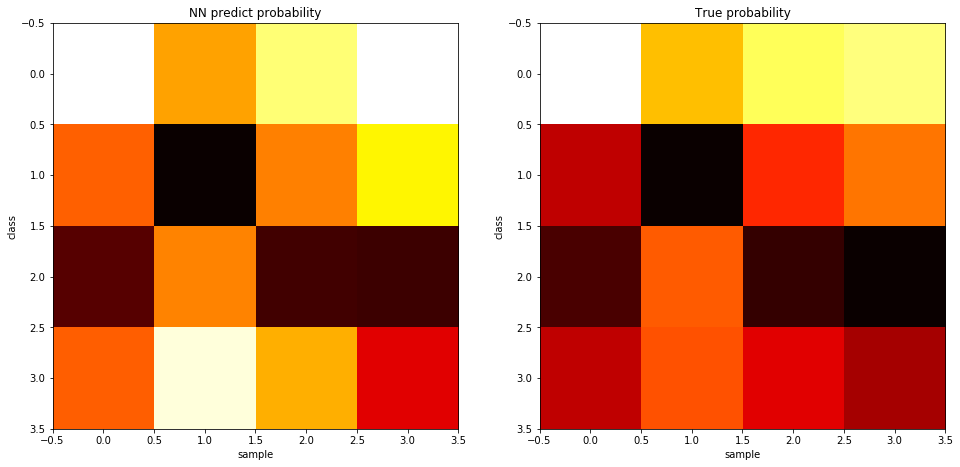
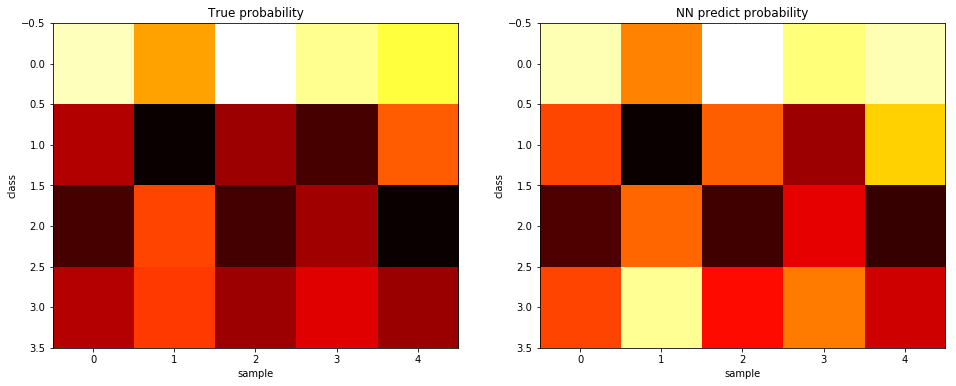
Site updated: 2017-10-31 23:16:55

diff --git a/a-study-in-free-lunch.html b/a-study-in-free-lunch.html
@@ -100,7 +100,7 @@
 <meta property="og:image" content="http://joshua.galaxy.42dna.com/uploads/a-study-in-free-lunch/pro_heatmap.png">
 <meta property="og:image" content="http://joshua.galaxy.42dna.com/uploads/a-study-in-free-lunch/pro_heatmap_all.png">
 <meta property="og:image" content="http://joshua.galaxy.42dna.com/uploads/a-study-in-free-lunch/test_predict_rate.png">
-<meta property="og:updated_time" content="2017-10-31T07:21:26.870Z">
+<meta property="og:updated_time" content="2017-10-31T15:15:41.832Z">
 <meta name="twitter:card" content="summary">
 <meta name="twitter:title" content="神经网络-一个案例的研究">
 <meta name="twitter:description" content="在完成的了神经网络的编程后，下面进行一个案例研究。具体的，下面会查看神经网络对于分类高度重合数据的效果，并对其结果进行讨论。">
@@ -373,17 +373,17 @@
 
 <p>可以看出4各类别的数据重叠在一起。对于这样分布的数据分类准确率会有一定的上限。</p>
 <h1 id="神经网络学习与分类"><a href="#神经网络学习与分类" class="headerlink" title="神经网络学习与分类"></a>神经网络学习与分类</h1><p>下面使用上次编写的<a href="../Neural-Networks.html">神经网络代码</a>进行分类。</p>
-<figure class="highlight python"><table><tr><td class="gutter"><pre><div class="line">1</div><div class="line">2</div><div class="line">3</div><div class="line">4</div><div class="line">5</div><div class="line">6</div><div class="line">7</div><div class="line">8</div><div class="line">9</div><div class="line">10</div><div class="line">11</div><div class="line">12</div><div class="line">13</div><div class="line">14</div><div class="line">15</div><div class="line">16</div><div class="line">17</div><div class="line">18</div><div class="line">19</div><div class="line">20</div><div class="line">21</div><div class="line">22</div><div class="line">23</div><div class="line">24</div><div class="line">25</div><div class="line">26</div><div class="line">27</div><div class="line">28</div><div class="line">29</div></pre></td><td class="code"><pre><div class="line"><span class="comment"># 初始化数据</span></div><div class="line"><span class="comment"># init input data for NN</span></div><div class="line">nsample = num * <span class="number">4</span></div><div class="line">nfeature = <span class="number">3</span></div><div class="line">nclass = <span class="number">4</span></div><div class="line"></div><div class="line">tX = X</div><div class="line">ty = np.zeros((nsample, nclass))</div><div class="line"><span class="keyword">for</span> i <span class="keyword">in</span> range(len(ty)):</div><div class="line">    ty[i][int(y[i])] = <span class="number">1</span></div><div class="line"><span class="comment"># ty = ty</span></div><div class="line"><span class="keyword">print</span> tX.shape, ty.shape</div><div class="line"></div><div class="line"><span class="comment"># Logistic-Sigmoid</span></div><div class="line"><span class="comment"># f = lambda x: 1.0 / (1 + np.exp(-x)) #apply to net</span></div><div class="line"><span class="comment"># df = lambda x: x * (1 - x)           #apply to z</span></div><div class="line"></div><div class="line"><span class="comment"># # Tanh-Sigmoid</span></div><div class="line">f = <span class="keyword">lambda</span> x: np.tanh(x)</div><div class="line">df = <span class="keyword">lambda</span> x: <span class="number">1</span> - x*x</div><div class="line"></div><div class="line">nn = ANN()</div><div class="line"></div><div class="line"></div><div class="line">nn = ANN()</div><div class="line"></div><div class="line">nn.train(tX, ty, hide_n = [<span class="number">3</span>],  f=f, df=df, \</div><div class="line">         eta = <span class="number">0.01</span>, epochs=<span class="number">5000</span>, _lambda = <span class="number">0.001</span>, \</div><div class="line">         momentum_alpha = <span class="number">0.1</span>, decay_r = <span class="number">0.001</span>, print_loss=<span class="number">500</span>, seed=<span class="number">0</span>)</div></pre></td></tr></table></figure>
-<p>测试一个网络结构为4 X 3 X 3的神经网络，经过5000次迭代后分类的准确率达到51.52%。</p>
+<figure class="highlight python"><table><tr><td class="gutter"><pre><div class="line">1</div><div class="line">2</div><div class="line">3</div><div class="line">4</div><div class="line">5</div><div class="line">6</div><div class="line">7</div><div class="line">8</div><div class="line">9</div><div class="line">10</div><div class="line">11</div><div class="line">12</div><div class="line">13</div><div class="line">14</div><div class="line">15</div><div class="line">16</div><div class="line">17</div><div class="line">18</div><div class="line">19</div><div class="line">20</div><div class="line">21</div><div class="line">22</div><div class="line">23</div><div class="line">24</div><div class="line">25</div><div class="line">26</div><div class="line">27</div></pre></td><td class="code"><pre><div class="line"><span class="comment"># 初始化数据</span></div><div class="line"><span class="comment"># init input data for NN</span></div><div class="line">nsample = num * <span class="number">4</span></div><div class="line">nfeature = <span class="number">3</span></div><div class="line">nclass = <span class="number">4</span></div><div class="line"></div><div class="line">tX = X</div><div class="line">ty = np.zeros((nsample, nclass))</div><div class="line"><span class="keyword">for</span> i <span class="keyword">in</span> range(len(ty)):</div><div class="line">    ty[i][int(y[i])] = <span class="number">1</span></div><div class="line"><span class="comment"># ty = ty</span></div><div class="line"><span class="keyword">print</span> tX.shape, ty.shape</div><div class="line"></div><div class="line"><span class="comment"># Logistic-Sigmoid</span></div><div class="line"><span class="comment"># f = lambda x: 1.0 / (1 + np.exp(-x)) #apply to net</span></div><div class="line"><span class="comment"># df = lambda x: x * (1 - x)           #apply to z</span></div><div class="line"></div><div class="line"><span class="comment"># # Tanh-Sigmoid</span></div><div class="line">f = <span class="keyword">lambda</span> x: np.tanh(x)</div><div class="line">df = <span class="keyword">lambda</span> x: <span class="number">1</span> - x*x</div><div class="line"></div><div class="line"></div><div class="line">nn = ANN()</div><div class="line"></div><div class="line">nn.train(tX, ty, hide_n = [<span class="number">3</span>],  f=f, df=df, \</div><div class="line">         eta = <span class="number">0.01</span>, epochs=<span class="number">5000</span>, _lambda = <span class="number">0.001</span>, \</div><div class="line">         momentum_alpha = <span class="number">0.1</span>, decay_r = <span class="number">0.001</span>, print_loss=<span class="number">500</span>, seed=<span class="number">0</span>)</div></pre></td></tr></table></figure>
+<p>测试一个网络结构为3 X 3 X 4的神经网络，经过5000次迭代后分类的准确率达到51.52%。</p>
 <p>下面查看在个别样本点下预测概率值与真实概率值的区别。</p>
-<figure class="highlight plain"><table><tr><td class="gutter"><pre><div class="line">1</div><div class="line">2</div><div class="line">3</div><div class="line">4</div><div class="line">5</div><div class="line">6</div><div class="line">7</div><div class="line">8</div><div class="line">9</div><div class="line">10</div><div class="line">11</div><div class="line">12</div><div class="line">13</div><div class="line">14</div><div class="line">15</div><div class="line">16</div><div class="line">17</div><div class="line">18</div><div class="line">19</div><div class="line">20</div><div class="line">21</div><div class="line">22</div><div class="line">23</div><div class="line">24</div><div class="line">25</div><div class="line">26</div><div class="line">27</div><div class="line">28</div><div class="line">29</div><div class="line">30</div></pre></td><td class="code"><pre><div class="line"># 生成4个样本点</div><div class="line">target = np.array([[0, 0, 0],</div><div class="line">                   [-1, 0, 1],</div><div class="line">                   [0.5, 0.5, 0],</div><div class="line">                   [0, 0, -1]])</div><div class="line">                   </div><div class="line"># 获取神经网络的预测概率值</div><div class="line">pre_p  = nn.get_p(target)</div><div class="line"></div><div class="line"># 获取真实分布概率值</div><div class="line"># 多元高斯概率值函数</div><div class="line">def multivariate_gaussian(x, mu, cov):</div><div class="line">    k = len(mu)</div><div class="line">    cov_det = np.linalg.det(cov)</div><div class="line">    cov_inv = np.linalg.inv(cov)</div><div class="line">    sub = x - mu</div><div class="line">    up = np.exp(-1.0 / 2 * sum(sub.dot(cov_inv) * sub))</div><div class="line">    down = np.sqrt((2*np.pi)**k * cov_det)</div><div class="line">    return up / down </div><div class="line"></div><div class="line"># 条件概率</div><div class="line">def get_multip_class_true_p(x):</div><div class="line">    return [multivariate_gaussian(x, mu=mu1, cov=cov1), </div><div class="line">            multivariate_gaussian(x, mu=mu2, cov=cov2),</div><div class="line">            multivariate_gaussian(x, mu=mu3, cov=cov3),</div><div class="line">            multivariate_gaussian(x, mu=mu4, cov=cov4)]</div><div class="line"> </div><div class="line">all_true_p = np.array([get_multip_class_true_p(target[i]) for i in range(4)]).T</div><div class="line"># 真实概率值</div><div class="line">target_p = all_true_p / all_true_p.sum(0)</div></pre></td></tr></table></figure>
+<figure class="highlight plain"><table><tr><td class="gutter"><pre><div class="line">1</div><div class="line">2</div><div class="line">3</div><div class="line">4</div><div class="line">5</div><div class="line">6</div><div class="line">7</div><div class="line">8</div><div class="line">9</div><div class="line">10</div><div class="line">11</div><div class="line">12</div><div class="line">13</div><div class="line">14</div><div class="line">15</div><div class="line">16</div><div class="line">17</div><div class="line">18</div><div class="line">19</div><div class="line">20</div><div class="line">21</div><div class="line">22</div><div class="line">23</div><div class="line">24</div><div class="line">25</div><div class="line">26</div><div class="line">27</div><div class="line">28</div><div class="line">29</div><div class="line">30</div><div class="line">31</div></pre></td><td class="code"><pre><div class="line"># 生成4个样本点</div><div class="line">target = np.array([[0, 0, 0],</div><div class="line">                   [-1, 0, 1],</div><div class="line">                   [0.5, -0.5, 0],</div><div class="line">                   [-1, 0, 0],</div><div class="line">                   [0, 0, -1]])</div><div class="line">                   </div><div class="line"># 获取神经网络的预测概率值</div><div class="line">pre_p  = nn.get_p(target)</div><div class="line"></div><div class="line"># 获取真实分布概率值</div><div class="line"># 多元高斯概率值函数</div><div class="line">def multivariate_gaussian(x, mu, cov):</div><div class="line">    k = len(mu)</div><div class="line">    cov_det = np.linalg.det(cov)</div><div class="line">    cov_inv = np.linalg.inv(cov)</div><div class="line">    sub = x - mu</div><div class="line">    up = np.exp(-1.0 / 2 * sum(sub.dot(cov_inv) * sub))</div><div class="line">    down = np.sqrt((2*np.pi)**k * cov_det)</div><div class="line">    return up / down </div><div class="line"></div><div class="line"># 条件概率</div><div class="line">def get_multip_class_true_p(x):</div><div class="line">    return [multivariate_gaussian(x, mu=mu1, cov=cov1), </div><div class="line">            multivariate_gaussian(x, mu=mu2, cov=cov2),</div><div class="line">            multivariate_gaussian(x, mu=mu3, cov=cov3),</div><div class="line">            multivariate_gaussian(x, mu=mu4, cov=cov4)]</div><div class="line"> </div><div class="line">all_true_p = np.array([get_multip_class_true_p(target[i]) for i in range(5)]).T</div><div class="line"># 真实概率值</div><div class="line">target_p = all_true_p / all_true_p.sum(0)</div></pre></td></tr></table></figure>
 <p>得到的概率值数值为</p>
-<figure class="highlight plain"><table><tr><td class="gutter"><pre><div class="line">1</div><div class="line">2</div><div class="line">3</div><div class="line">4</div><div class="line">5</div><div class="line">6</div><div class="line">7</div><div class="line">8</div><div class="line">9</div><div class="line">10</div><div class="line">11</div><div class="line">12</div><div class="line">13</div><div class="line">14</div><div class="line">15</div><div class="line">16</div><div class="line">17</div><div class="line">18</div><div class="line">19</div><div class="line">20</div><div class="line">21</div><div class="line">22</div><div class="line">23</div><div class="line">24</div><div class="line">25</div><div class="line">26</div><div class="line">27</div></pre></td><td class="code"><pre><div class="line"># NN预测概率， 其中每一行代表一个数据点，每一列对应每个类别的概率值</div><div class="line">array([[ 0.43965423,  0.2807295 ,  0.38435841,  0.44024963],</div><div class="line">       [ 0.2412433 ,  0.03333006,  0.26054298,  0.33186004],</div><div class="line">       [ 0.07974024,  0.26068414,  0.06742546,  0.06392216],</div><div class="line">       [ 0.23936223,  0.4252563 ,  0.28767315,  0.16396817]])</div><div class="line"># 真实概率</div><div class="line">array([[ 0.57319913,  0.38239803,  0.4820328 ,  0.50071463],</div><div class="line">       [ 0.17383142,  0.02587597,  0.25656062,  0.32146516],</div><div class="line">       [ 0.07816171,  0.30006788,  0.06047473,  0.02511796],</div><div class="line">       [ 0.17480774,  0.29165812,  0.20093184,  0.15270225]])</div><div class="line"> </div><div class="line"> # 画热图</div><div class="line">plt.figure(figsize=(16, 32))</div><div class="line">plt.subplot(1, 2, 1)</div><div class="line">plt.title(&apos;NN predict probability&apos;)</div><div class="line">plt.imshow(target_p, cmap=&apos;hot&apos;, interpolation=&apos;nearest&apos;)</div><div class="line">plt.xlabel(&apos;sample&apos;)</div><div class="line">plt.ylabel(&apos;class&apos;)</div><div class="line"></div><div class="line">plt.subplot(1, 2, 2)</div><div class="line">plt.title(&apos;True probability&apos;)</div><div class="line">plt.imshow(pre_p, cmap=&apos;hot&apos;, interpolation=&apos;nearest&apos;)</div><div class="line">plt.xlabel(&apos;sample&apos;)</div><div class="line">plt.ylabel(&apos;class&apos;)</div><div class="line">plt.show()</div><div class="line"></div><div class="line">plt.show()</div></pre></td></tr></table></figure>
+<figure class="highlight plain"><table><tr><td class="gutter"><pre><div class="line">1</div><div class="line">2</div><div class="line">3</div><div class="line">4</div><div class="line">5</div><div class="line">6</div><div class="line">7</div><div class="line">8</div><div class="line">9</div><div class="line">10</div><div class="line">11</div><div class="line">12</div><div class="line">13</div><div class="line">14</div><div class="line">15</div><div class="line">16</div><div class="line">17</div><div class="line">18</div><div class="line">19</div><div class="line">20</div><div class="line">21</div><div class="line">22</div><div class="line">23</div><div class="line">24</div><div class="line">25</div><div class="line">26</div><div class="line">27</div><div class="line">28</div><div class="line">29</div><div class="line">30</div></pre></td><td class="code"><pre><div class="line"># NN预测概率， 其中每一行代表一个数据点，每一列对应每个类别的概率值</div><div class="line">[[ 0.43965423  0.2412433   0.07974024  0.23936223]</div><div class="line"> [ 0.2807295   0.03333006  0.26068414  0.4252563 ]</div><div class="line"> [ 0.4733875   0.2553482   0.07037593  0.20088837]</div><div class="line"> [ 0.41485988  0.13125879  0.17941225  0.27446907]</div><div class="line"> [ 0.44024963  0.33186004  0.06392216  0.16396817]]</div><div class="line"># 真实后验概率</div><div class="line">[[ 0.57319913  0.17383142  0.07816171  0.17480774]</div><div class="line"> [ 0.38239803  0.02587597  0.30006788  0.29165812]</div><div class="line"> [ 0.61360936  0.15427108  0.07698202  0.15513754]</div><div class="line"> [ 0.54839143  0.07855839  0.15830697  0.21474321]</div><div class="line"> [ 0.50071463  0.32146516  0.02511796  0.15270225]]</div><div class="line"></div><div class="line"> </div><div class="line"> # 画热图</div><div class="line">plt.figure(figsize=(16, 32))</div><div class="line">plt.subplot(1, 2, 1)</div><div class="line">plt.title(&apos;True probability&apos;)</div><div class="line">plt.imshow(target_p, cmap=&apos;hot&apos;)</div><div class="line">plt.xlabel(&apos;sample&apos;)</div><div class="line">plt.ylabel(&apos;class&apos;)</div><div class="line"></div><div class="line"></div><div class="line">plt.subplot(1, 2, 2)</div><div class="line">plt.title(&apos;NN predict probability&apos;)</div><div class="line"></div><div class="line">plt.imshow(pre_p, cmap=&apos;hot&apos;)</div><div class="line">plt.xlabel(&apos;sample&apos;)</div><div class="line">plt.ylabel(&apos;class&apos;)</div><div class="line">plt.show()</div></pre></td></tr></table></figure>
 <p><img src="/uploads/a-study-in-free-lunch/pro_heatmap.png" alt="pro_heatmap"></p>
 <p>可以看出预测概率值和真实概率大小关系大致相同，但其中第二个样本点分类错误。</p>
 <h2 id="多层神经网络"><a href="#多层神经网络" class="headerlink" title="多层神经网络"></a>多层神经网络</h2><p>从前面的测试看出使用[3 X 3 X 4]的神经网络学习的准确率只有51%左右，下面改变网络隐藏层的节点数和结构学习新的神经网络看学习准确率的改变。</p>
 <p>分别使用上面的代码新生成3个神经网络，分别是nn1(结构为[3 X 10 X 4]， lambda=0.0001，迭代10000次)，nn2(结构为[3 X 10 X 10 X 4]， lambda=0.0001，迭代10000次)，nn3(结构为[3 X 50 X 50 X 4]， lambda=0.0001，迭代10000次)。它们学习准确率分别为 nn1 分类正确了57.57%训练样本，nn2分类正确58.5%, nn3 分类正确60.65%。</p>
-<p>下面是在4个样本点中，这4个分类器得到的概率值热图。</p>
+<p>下面是在5个样本点中，这4个分类器得到的概率值热图。</p>
 <figure class="highlight plain"><table><tr><td class="gutter"><pre><div class="line">1</div><div class="line">2</div><div class="line">3</div><div class="line">4</div><div class="line">5</div><div class="line">6</div><div class="line">7</div><div class="line">8</div><div class="line">9</div><div class="line">10</div><div class="line">11</div><div class="line">12</div><div class="line">13</div><div class="line">14</div><div class="line">15</div><div class="line">16</div><div class="line">17</div><div class="line">18</div><div class="line">19</div></pre></td><td class="code"><pre><div class="line">the_nn = [nn, nn1, nn2, nn3]</div><div class="line"></div><div class="line">plt.figure(figsize=(15, 30))</div><div class="line"></div><div class="line">plt.subplot(5, 2, 1)</div><div class="line">plt.title(&apos;True probability&apos;)</div><div class="line">plt.imshow(target_p, cmap=&apos;hot&apos;, interpolation=&apos;nearest&apos;)</div><div class="line">plt.xlabel(&apos;sample&apos;)</div><div class="line">plt.ylabel(&apos;class&apos;)</div><div class="line"></div><div class="line">for i, nn_i in enumerate(the_nn):</div><div class="line">    plt.subplot(5, 2, i+2)</div><div class="line">    plt.title(&apos;NN%s preict probability&apos; % (i))</div><div class="line">    pre_tmp  = nn_i.get_p(target)</div><div class="line">    plt.imshow(pre_tmp, cmap=&apos;hot&apos;, interpolation=&apos;nearest&apos;)</div><div class="line">    plt.xlabel(&apos;sample&apos;)</div><div class="line">    plt.ylabel(&apos;class&apos;)</div><div class="line"></div><div class="line">plt.show()</div></pre></td></tr></table></figure>
 <p><img src="/uploads/a-study-in-free-lunch/pro_heatmap_all.png" alt="pro_heatmap_all"></p>
 <p>虽然随着隐藏层节点数和层数的增加，学习的准确率得到提升(51% -&gt; 57% -&gt; 58% -&gt; 60%)，但是从概率预测值的如图来看，概率预测值和真实值相比并没变得更加贴近。其中藏层层数为[3]和[10X10]的神经网络得到的预测概率值与真实概率相似。从这些热图图也可以看出较复杂的神经网络并没有比最简单[3 X 3 X 4]的神经网络得到更优的概率值预测结果。</p>
@@ -391,9 +391,9 @@
 <figure class="highlight python"><table><tr><td class="gutter"><pre><div class="line">1</div><div class="line">2</div><div class="line">3</div><div class="line">4</div><div class="line">5</div><div class="line">6</div><div class="line">7</div><div class="line">8</div><div class="line">9</div><div class="line">10</div><div class="line">11</div><div class="line">12</div><div class="line">13</div><div class="line">14</div><div class="line">15</div><div class="line">16</div><div class="line">17</div><div class="line">18</div><div class="line">19</div><div class="line">20</div><div class="line">21</div><div class="line">22</div><div class="line">23</div><div class="line">24</div></pre></td><td class="code"><pre><div class="line"><span class="comment"># 生成测试数据</span></div><div class="line">np.random.seed(<span class="number">0</span>)</div><div class="line"></div><div class="line">num = <span class="number">100</span></div><div class="line">test_X = np.vstack((gen_data(mu1, cov1, num), \</div><div class="line">               gen_data(mu2, cov2, num), \</div><div class="line">               gen_data(mu3, cov3, num), \</div><div class="line">               gen_data(mu4, cov4, num)))</div><div class="line">test_y = np.append(<span class="number">0</span> * np.ones(num, dtype=np.int),\</div><div class="line">             [<span class="number">1</span> * np.ones(num, dtype=np.int),\</div><div class="line">              <span class="number">2</span> * np.ones(num, dtype=np.int),\</div><div class="line">              <span class="number">3</span> * np.ones(num, dtype=np.int)])</div><div class="line"></div><div class="line"><span class="keyword">print</span> test_X.shape, test_y.shape</div><div class="line"></div><div class="line">nsample = num * <span class="number">4</span></div><div class="line">nfeature = <span class="number">3</span></div><div class="line">nclass = <span class="number">4</span></div><div class="line"></div><div class="line">test_tX = test_X</div><div class="line">test_ty = np.zeros((nsample, nclass))</div><div class="line"><span class="keyword">for</span> i <span class="keyword">in</span> range(len(test_ty)):</div><div class="line">    test_ty[i][int(test_y[i])] = <span class="number">1</span></div><div class="line"><span class="keyword">print</span> test_tX.shape, test_ty.shape</div></pre></td></tr></table></figure>
 <p>进行测试</p>
 <figure class="highlight python"><table><tr><td class="gutter"><pre><div class="line">1</div><div class="line">2</div><div class="line">3</div><div class="line">4</div><div class="line">5</div><div class="line">6</div><div class="line">7</div><div class="line">8</div><div class="line">9</div><div class="line">10</div><div class="line">11</div><div class="line">12</div><div class="line">13</div><div class="line">14</div><div class="line">15</div><div class="line">16</div></pre></td><td class="code"><pre><div class="line"><span class="comment"># 分别对4个分类器进行测试</span></div><div class="line"></div><div class="line">the_nn = [nn, nn1, nn2, nn3]</div><div class="line"><span class="comment"># 测试得到预测准确率</span></div><div class="line">all_pre_nn = [t.calculate_match_rate(test_tX, test_ty) <span class="keyword">for</span> t <span class="keyword">in</span> the_nn]</div><div class="line"></div><div class="line"><span class="comment"># 画图</span></div><div class="line"><span class="keyword">from</span> matplotlib <span class="keyword">import</span> pyplot</div><div class="line">pyplot.plot([<span class="number">0</span>, <span class="number">1</span>, <span class="number">2</span>, <span class="number">3</span>], all_pre_nn)</div><div class="line"><span class="keyword">for</span> a,b <span class="keyword">in</span> zip([<span class="number">0</span>, <span class="number">1</span>, <span class="number">2</span>, <span class="number">3</span>], all_pre_nn): </div><div class="line">    pyplot.text(a, b, str(b))</div><div class="line">pyplot.title(<span class="string">'all NN test preict rate'</span>)</div><div class="line">my_xticks = [<span class="string">'nn [3]'</span>,<span class="string">'nn1[10]'</span>,<span class="string">'nn2[10X10]'</span>,<span class="string">'nn3[50X50]'</span>]</div><div class="line">pyplot.xticks([<span class="number">0</span>, <span class="number">1</span>, <span class="number">2</span>, <span class="number">3</span>], my_xticks)</div><div class="line">pyplot.ylabel(<span class="string">'test predict rate'</span>)</div><div class="line">pyplot.show()</div></pre></td></tr></table></figure>
-<p><img src="/uploads/a-study-in-free-lunch/test_predict_rate.png" alt="test_predict_rate"></p>
+<p><img src="../uploads/a-study-in-free-lunch/test_predict_rate.png" alt="test_predict_rate"></p>
 <p>可以看出神经网络测试的准确率在0.55到0.65左右，其中[3 X 3 X 4]的准确率为55.25%，[3 X 10 X 10 X 4]网络的准确率为最大的64%。此后增加网络的节点并没有提升测试的性能。可以说明随着神经网络的复杂度增加（隐藏节点数增加，层数增加）,网络学习的准确率能增加，但泛化的能力在过了一定数值后会减少，此即为学习的过拟合。</p>
-<h1 id="总结"><a href="#总结" class="headerlink" title="总结"></a>总结</h1><p>本文通过对一个不同类别紧密结合的数据集进行神经网络分类学习和预测。得到的结果可以看出神经网络的性能有一定上限，即和样本的真实分布相关。从以上实验可以直观体会“<strong>天下没有免费的午餐</strong>”，对于该由正态分布生成的“简单”分类问题，神经网络亦不能得到很好的预测效果。对于实际问题，某些模型并不一定能得到很好的效果。总的来说，实际模式识别问题还是需要一定的先验以及需要进行多种测试（不同得算法、参数等）。</p>
+<h1 id="总结"><a href="#总结" class="headerlink" title="总结"></a>总结</h1><p>本文通过对一个不同类别紧密结合的数据集进行神经网络分类学习和预测。得到的结果可以看出神经网络的性能有一定上限，即和样本的真实分布相关。从以上实验可以直观体会“<strong>天下没有免费的午餐</strong>”，对于该由正态分布生成的“简单”分类问题，神经网络亦不能得到很好的预测效果。对于实际问题，某些模型并不一定能得到很好的效果。总的来说，实际模式识别问题还是需要一定的先验（能不能分类、怎么分类）以及需要进行多种测试（不同得算法、参数等）。</p>
 
       
     </div>
